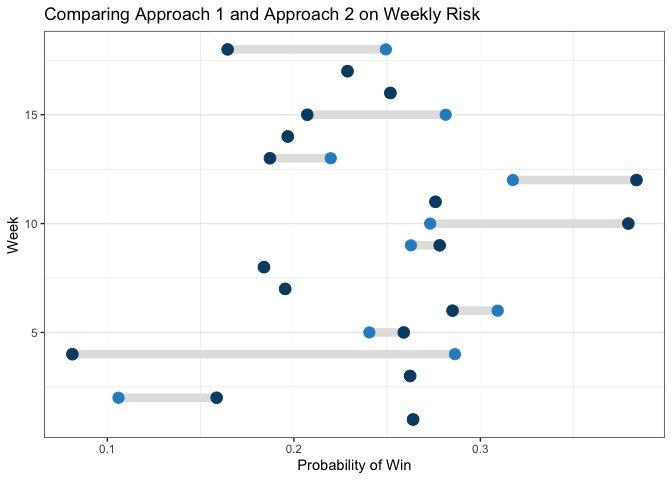
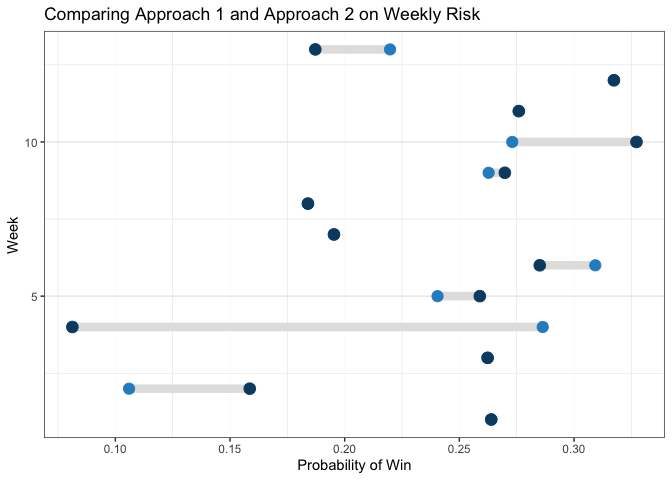
table comparing approaches

diff --git a/NFL_losers_pool_2021.html b/NFL_losers_pool_2021.html
@@ -721,6 +721,7 @@ ggplot(data, aes(y=Week, x=ProbWin_1, xend=ProbWin_2)) +
   theme_bw() +
   theme(panel.grid.major.x=element_line(size=0.05))</code></pre>
[1 lines of base64/hex data omitted]
+<p>Both approaches have the same pick in week 1, but a large difference in picks for Week 3. This analysis is still in progress.</p>
 </div>
 
 

diff --git a/NFL_losers_pool_2021.md b/NFL_losers_pool_2021.md
@@ -375,3 +375,6 @@ ggplot(data, aes(y=Week, x=ProbWin_1, xend=ProbWin_2)) +
 
 ![](README_figs/README-unnamed-chunk-6-1.png)<!-- -->
 
+
+Both approaches have the same pick in week 1, but a large difference in picks 
+for Week 3. This analysis is still in progress. 
